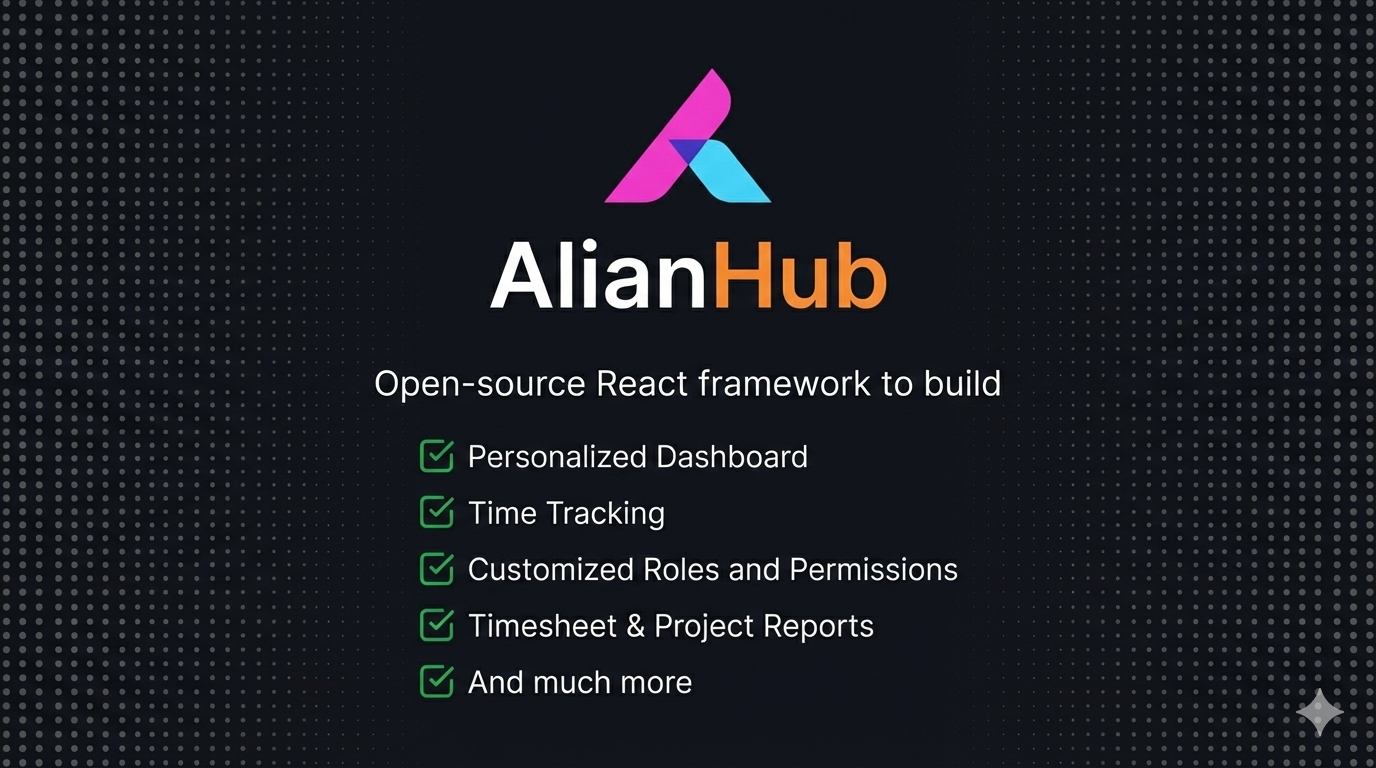
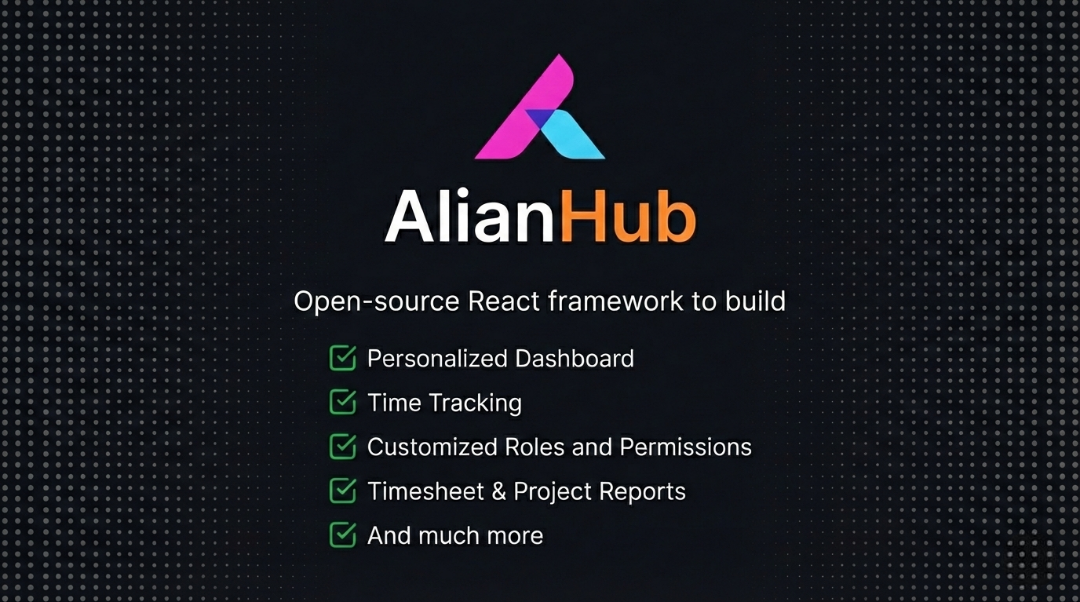
Changes for Main Image of README.md

diff --git a/README.md b/README.md
@@ -1,6 +1,6 @@
 <div align="center">
 <a href="https://alianhub.com">
-    <strong style="font-size:32px;">AlianHub</strong>
+    <img src=".gitbook/assets/AlianHub_Main.png" />
 </a>
 
 <br/>
